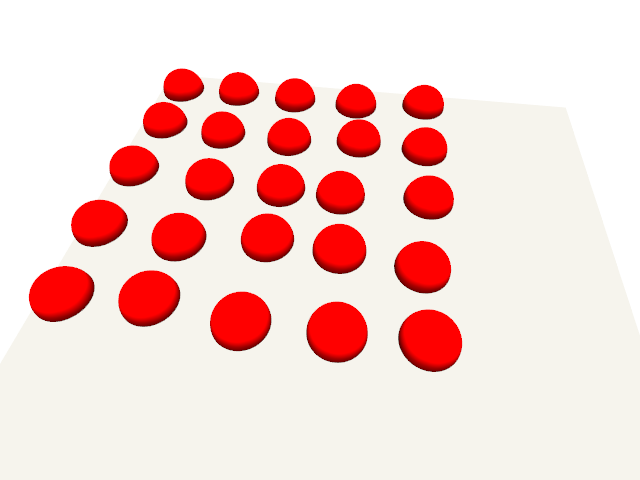
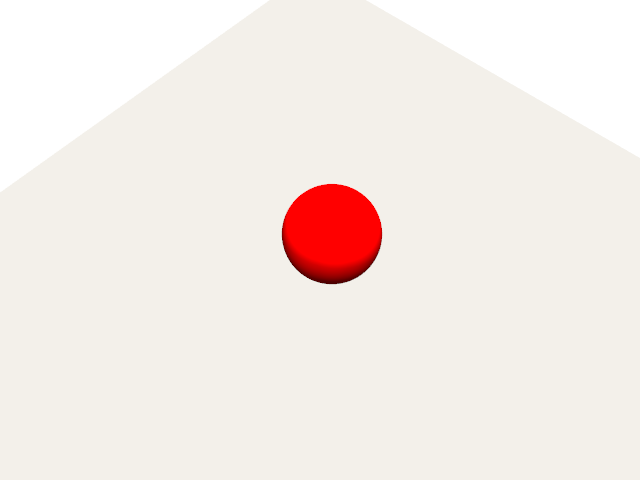
init experiment4

diff --git a/collect_data.py b/collect_data.py
@@ -10,10 +10,10 @@ ORIGIN = np.array([0, 0, 0], dtype=float)
 
 # 在3D场景中放置一个红色小球和相机，并拍摄一张图像。
 def take_photo(
-        sphere_position,  # sphere_position (list or tuple): 小球的中心坐标，如 [x, y, z]。
+        sphere_position_list,  # sphere_position (list or tuple): 小球的中心坐标，如 [x, y, z]。
         sphere_radius,  # 小球半径
         camera_position,  # camera_position (list or tuple): 相机的位置，如 [x, y, z]。
-        focal_point,  # focal_point (list or tuple): 相机看向的点，如 [x, y, z]。
+        focal_point,
         view_up,  # view_up (list or tuple): 定义相机上方的方向向量，如 [0, 0, 1] 表示Z轴向上。
         view_angle,  # view_angle (float): 相机的垂直视锥角度，单位为度。
         light_position,  # 光源位置
@@ -21,6 +21,8 @@ def take_photo(
         plane_size,  # 地面宽度
         filename  # 输出图像的文件名
     ):
+
+    assert len(sphere_position_list) > 0
 
     # 创建一个空的绘图器（plotter）
     plotter = pv.Plotter(off_screen=True, window_size=image_size)
@@ -36,13 +38,11 @@ def take_photo(
     )
 
     # 2. 创建红色小球并添加到场景
-    for i in range(5):
-        for j in range(5):
-            x = -9 + 3 * i + random.uniform(-0.3, 0.3)
-            y = -9 + 3 * j + random.uniform(-0.3, 0.3)
-            sphere = pv.Sphere(radius=sphere_radius, center=[x, y, 0], phi_resolution=360, theta_resolution=360)
-            plotter.add_mesh(sphere, color='red')
+    for sphere_position in sphere_position_list:
+        sphere = pv.Sphere(radius=sphere_radius, center=sphere_position, phi_resolution=360, theta_resolution=360)
+        plotter.add_mesh(sphere, color='red')
 
+    
     plane = pv.Plane(center=ORIGIN, direction=(0, 0, 1), i_size=plane_size, j_size=plane_size)
     plotter.add_mesh(plane, color='grey')
 
@@ -64,23 +64,25 @@ def take_photo_wrapper(idx, image_dir, state_dir):
     plane_size = 20
     sphere_radius = 1
 
-    sphere_pos = [
-        random.uniform(-10, 10),
-        random.uniform(-10, 10),
-        sphere_radius
-    ]  # 小球在原点
+    start_idx = random.randint(0, 8)
+    sphere_position_list = []
+    for n in range(start_idx, 9):
+        i, j = divmod(n, 3)
+        x = -3 + i * 3 + random.uniform(-0.1, 0.1)
+        y = -3 + j * 3 + random.uniform(-0.1, 0.1)
+        sphere_position = [x, y, sphere_radius]
+        sphere_position_list.append(sphere_position)
+    
+    first_sphere_pos = sphere_position_list[0]
+    camera_pos = first_sphere_pos.copy()
+    camera_pos[0] = camera_pos[0] + random.uniform(-4, -2)
+    camera_pos[1] = camera_pos[1] + random.uniform(-4, -2)
+    camera_pos[2] = 2 * sphere_radius + random.uniform(6, 8)
 
-    camera_pos = [
-        random.uniform(6, 10),
-        random.uniform(-1, 1),
-        sphere_radius * 2 + random.uniform(10, 12)
-    ]  # 相机位置
-
-    focal_pt = [
-        random.uniform(-2, 2),
-        random.uniform(-2, 2),
-        0
-    ]  # 相机看向的位置
+    focal_pos = first_sphere_pos.copy()
+    focal_pos[0] = focal_pos[0] + random.uniform(-1, 1)
+    focal_pos[1] = focal_pos[1] + random.uniform(-1, 1)
+    focal_pos[2] = 0
 
     view_up_vec = [0, 0, 1]  # Z轴向上
     light_pos = [0, 0, 100]
@@ -90,14 +92,14 @@ def take_photo_wrapper(idx, image_dir, state_dir):
     os.makedirs(image_dir, exist_ok=True)
     image_path = os.path.join(image_dir, f"{idx}.png")
 
-    camera_front = compute_direction(start=camera_pos, end=focal_pt).tolist()
-    sphere_dir = compute_direction(start=camera_front, end=sphere_pos).tolist()
+    camera_front = compute_direction(start=camera_pos, end=focal_pos).tolist()
+    sphere_dir = compute_direction(start=camera_front, end=first_sphere_pos).tolist()
 
-    distance = np.linalg.norm(np.array(camera_pos) - np.array(sphere_pos)).item()
+    distance = np.linalg.norm(np.array(camera_pos) - np.array(first_sphere_pos)).item()
 
     data = {
-        "sphere_pos": sphere_pos,
-        "focal_pos": focal_pt,
+        "sphere_pos": sphere_position_list[0],
+        "focal_pos": focal_pos,
         "camera_pos": camera_pos,
         "camera_front": camera_front,
         "sphere_dir": sphere_dir,
@@ -109,10 +111,10 @@ def take_photo_wrapper(idx, image_dir, state_dir):
     save_json(data, json_path)
 
     # 调用函数来完成任务
-    take_photo(sphere_position=sphere_pos,
+    take_photo(sphere_position_list=sphere_position_list,
                sphere_radius=sphere_radius,
                camera_position=camera_pos,
-               focal_point=focal_pt,
+               focal_point=focal_pos,
                view_up=view_up_vec,
                view_angle=view_angle_deg,
                light_position=light_pos,

diff --git a/remove_data.py b/remove_data.py
@@ -1,0 +1,8 @@
+import os
+
+
+def main():
+    image_dir = "image_train"
+    for name in os.listdir(image_dir):
+        image_path = os.path.join(image_dir, name)
+        
